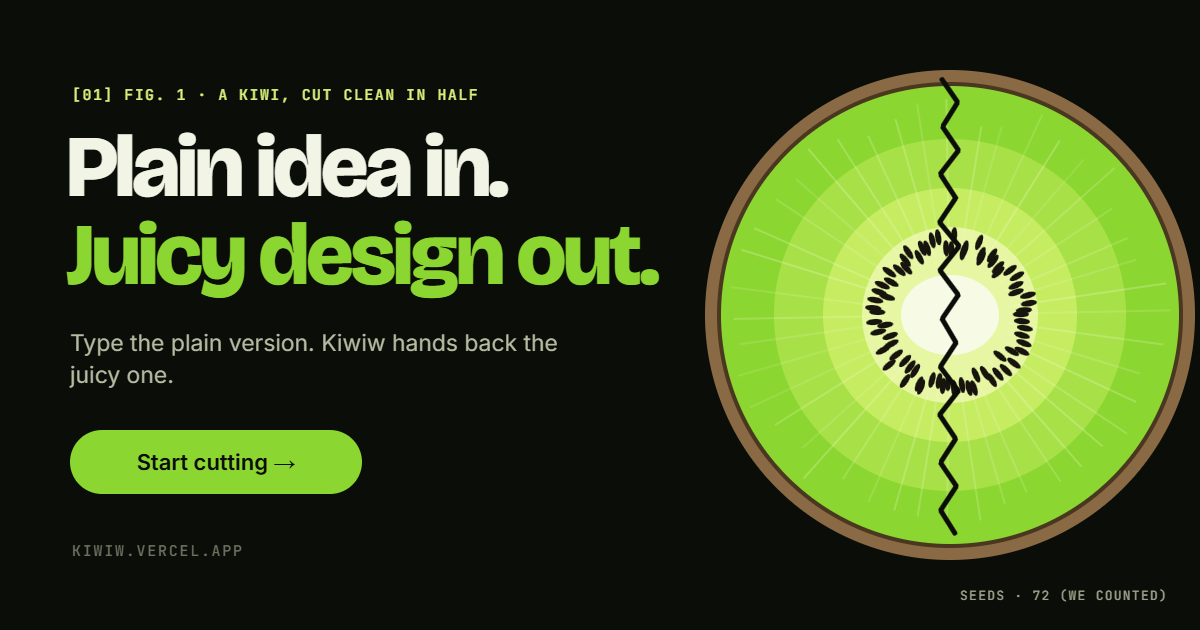
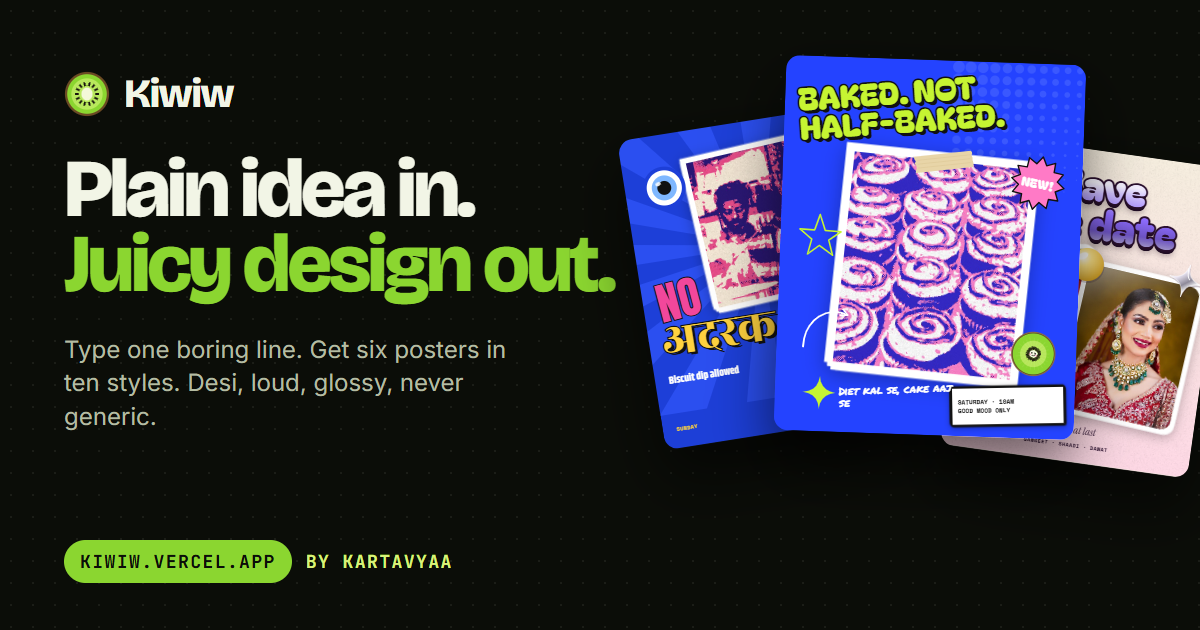
OG card by Kartavyaa, meta copy, final checks
- New 1200x630 OG image rendered from real juiced posters (/dev/kit?view=og):
  'Plain idea in. Juicy design out.' + kiwiw.vercel.app + 'by Kartavyaa'
- Meta/OG/Twitter descriptions updated (no 'AI Magic Studio'); author tag
- Final: tsc + build pass; 40 runs (every landing section and editor panel at
  1366/1920/390) with 0 console errors or warnings; Juice gate 55/60

diff --git a/src/pages/DevKit.tsx b/src/pages/DevKit.tsx
@@ -41,6 +41,36 @@ function CollideReport() {
   return rows ? <pre id="collide">{[`${rows.length} collisions`, ...rows].join(String.fromCharCode(10))}</pre> : null;
 }
 
+/** ?view=og: the 1200x630 social card, built from real juiced posters. */
+function OgCard() {
+  const [docs, setDocs] = useState<KiwiwDoc[] | null>(null);
+  useEffect(() => { ensureJuiceFonts().then(() => setDocs([juiceRecipe("bake sale saturday 10am", "sticker", 0).doc, juiceRecipe("chai tapri opening sunday", "nazar", 2).doc, juiceRecipe("wedding save the date", "glossy", 2).doc])); }, []);
+  if (!docs) return null;
+  const card = (d: KiwiwDoc, x: number, y: number, rot: number, w: number) => (
+    <div style={{ position: "absolute", left: x, top: y, width: w, aspectRatio: "1080 / 1350", transform: `rotate(${rot}deg)`, borderRadius: 14, overflow: "hidden", boxShadow: "0 30px 60px rgba(0,0,0,.6)" }}><Thumb doc={d} /></div>
+  );
+  return (
+    <div id="og-ready" style={{ position: "relative", width: 1200, height: 630, overflow: "hidden", background: "#0B0D08", fontFamily: "Inter" }}>
+      <div style={{ position: "absolute", inset: 0, backgroundImage: "radial-gradient(rgba(242,245,230,.07) 1.2px, transparent 1.2px)", backgroundSize: "22px 22px" }} />
+      <div style={{ position: "absolute", left: 64, top: 70, width: 560 }}>
+        <div style={{ display: "flex", alignItems: "center", gap: 14, marginBottom: 34 }}>
+          <svg width="46" height="46" viewBox="-50 -50 100 100"><circle r="48" fill="#6B4A23" /><circle r="43" fill="#8BD630" /><circle r="34" fill="#B8E85C" /><ellipse rx="12" ry="14" fill="#F4F8D8" />{Array.from({ length: 14 }, (_, i) => { const a = (i / 14) * Math.PI * 2; return <ellipse key={i} cx={Math.cos(a) * 22} cy={Math.sin(a) * 22} rx="2" ry="4" fill="#17140D" transform={`rotate(${(a * 180) / Math.PI + 90} ${Math.cos(a) * 22} ${Math.sin(a) * 22})`} />; })}</svg>
+          <span style={{ fontFamily: "Bricolage Grotesque Variable", fontWeight: 800, fontSize: 40, letterSpacing: "-0.04em", color: "#F2F5E6" }}>Kiwiw</span>
+        </div>
+        <div style={{ fontFamily: "Bricolage Grotesque Variable", fontWeight: 800, fontSize: 82, lineHeight: 0.92, letterSpacing: "-0.045em", color: "#F2F5E6" }}>Plain idea in.<br /><span style={{ color: "#8BD630" }}>Juicy design out.</span></div>
+        <div style={{ marginTop: 30, fontSize: 24, lineHeight: 1.4, color: "#B4BCA2", width: 470 }}>Type one boring line. Get six posters in ten styles. Desi, loud, glossy, never generic.</div>
+        <div style={{ position: "absolute", top: 470, display: "flex", gap: 14, alignItems: "center", fontFamily: "JetBrains Mono", fontWeight: 700, fontSize: 18, letterSpacing: "0.08em" }}>
+          <span style={{ background: "#8BD630", color: "#0B0D08", padding: "10px 16px", borderRadius: 999 }}>KIWIW.VERCEL.APP</span>
+          <span style={{ color: "#D8F27A" }}>BY KARTAVYAA</span>
+        </div>
+      </div>
+      {card(docs[1], 640, 120, -9, 250)}
+      {card(docs[2], 960, 150, 8, 250)}
+      {card(docs[0], 780, 60, 2, 300)}
+    </div>
+  );
+}
+
 /** ?dump=heroes: build the hero templates with real fonts and print the JSON. */
 function HeroDump() {
   const [json, setJson] = useState("");
@@ -133,6 +163,7 @@ export default function DevKit() {
     return t ? <DocRender doc={t.doc} /> : <div style={wrap}>No template "{one}"</div>;
   }
   if (params.get("view") === "fx") return <FxView />;
+  if (params.get("view") === "og") return <OgCard />;
   if (params.get("dump") === "heroes") return <HeroDump />;
   if (params.get("view") === "collide") return <CollideReport />;
   if (params.get("view") === "templates") {

diff --git a/index.html b/index.html
@@ -4,7 +4,7 @@
     <meta charset="UTF-8" />
     <meta name="viewport" content="width=device-width, initial-scale=1.0" />
     <title>Kiwiw: plain idea in, juicy design out</title>
-    <meta name="description" content="Kiwiw is a browser design studio. Type the plain version, get the juicy one back: drag-and-drop editor, real templates and an AI Magic Studio. Free, no sign-up." />
+    <meta name="description" content="Kiwiw turns one boring line into six juicy posters in ten bold styles: desi pop, halftone, Riso, glossy and more. A free browser design studio by Kartavyaa." />
     <meta name="theme-color" content="#0B0D08" />
     <link rel="canonical" href="https://kiwiw.vercel.app/" />
 
@@ -15,24 +15,25 @@
     <link rel="manifest" href="/site.webmanifest" />
 
     <!-- Open Graph (LinkedIn, Facebook, Slack) -->
+    <meta name="author" content="Kartavyaa" />
     <meta property="og:type" content="website" />
     <meta property="og:site_name" content="Kiwiw" />
     <meta property="og:url" content="https://kiwiw.vercel.app/" />
     <meta property="og:title" content="Kiwiw: plain idea in, juicy design out" />
-    <meta property="og:description" content="A browser design studio. Type the plain version, get the juicy one back. Templates, a live editor and an AI Magic Studio." />
+    <meta property="og:description" content="Type one boring line, get six posters in ten bold styles. Desi, loud, glossy, never generic. By Kartavyaa." />
     <meta property="og:image" content="https://kiwiw.vercel.app/og.png" />
     <meta property="og:image:secure_url" content="https://kiwiw.vercel.app/og.png" />
     <meta property="og:image:type" content="image/png" />
     <meta property="og:image:width" content="1200" />
     <meta property="og:image:height" content="630" />
-    <meta property="og:image:alt" content="A kiwi cut in half next to the words: Plain idea in. Juicy design out." />
+    <meta property="og:image:alt" content="Kiwiw: plain idea in, juicy design out. Three juiced posters fanned out, by Kartavyaa." />
 
     <!-- Twitter / X -->
     <meta name="twitter:card" content="summary_large_image" />
     <meta name="twitter:title" content="Kiwiw: plain idea in, juicy design out" />
-    <meta name="twitter:description" content="A browser design studio. Type the plain version, get the juicy one back." />
+    <meta name="twitter:description" content="Type one boring line, get six posters in ten bold styles. By Kartavyaa." />
     <meta name="twitter:image" content="https://kiwiw.vercel.app/og.png" />
-    <meta name="twitter:image:alt" content="A kiwi cut in half next to the words: Plain idea in. Juicy design out." />
+    <meta name="twitter:image:alt" content="Kiwiw: plain idea in, juicy design out. Three juiced posters fanned out, by Kartavyaa." />
   </head>
   <body>
     <div id="root"></div>
